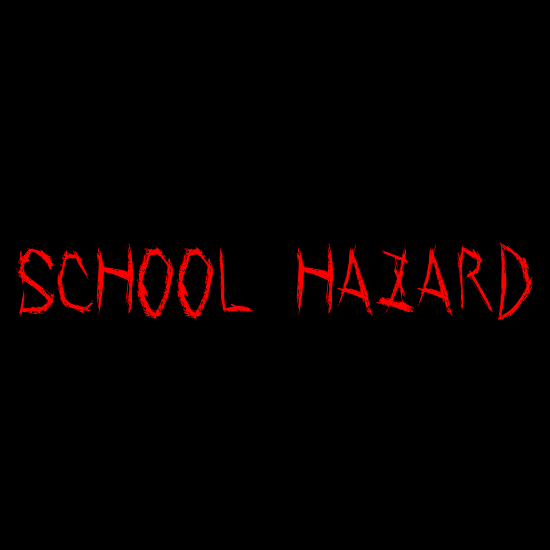
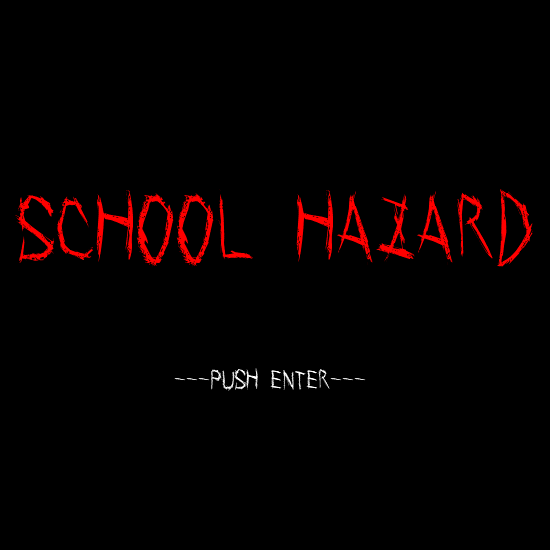
画像の追加と原てんてーの値の修正

diff --git a/main.rb b/main.rb
@@ -132,6 +132,7 @@ Window.load_resources do
       if Input.key_down?(K_RETURN)
         index = SEARCH
       else
+        font = Font.new(32)
         Window.draw(0, 0, Image[:op])
       end
     when SEARCH
@@ -195,7 +196,7 @@ Window.load_resources do
           when 1 then
             enemy = Enemy.new(ball_img,200,200,1,100,5,30,300)
           when 2 then
-            enemy = Enemy.new(hara_img,300,2,2,10,10,30,300)
+            enemy = Enemy.new(hara_img,300,2,2,150,15,30,300)
           end
           enemyflag = 0
         end
